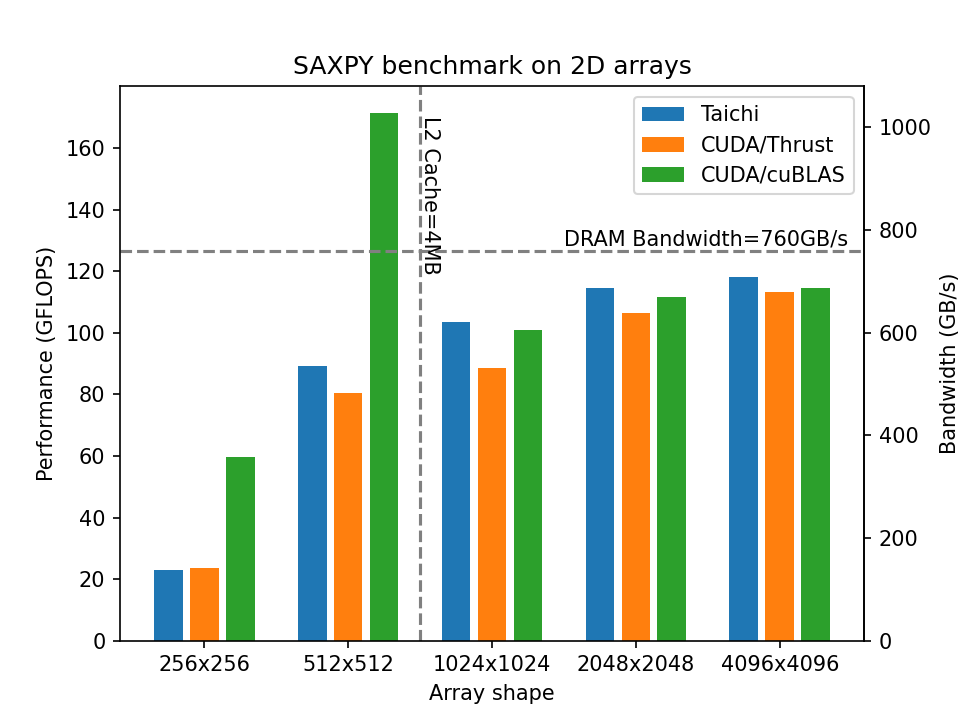
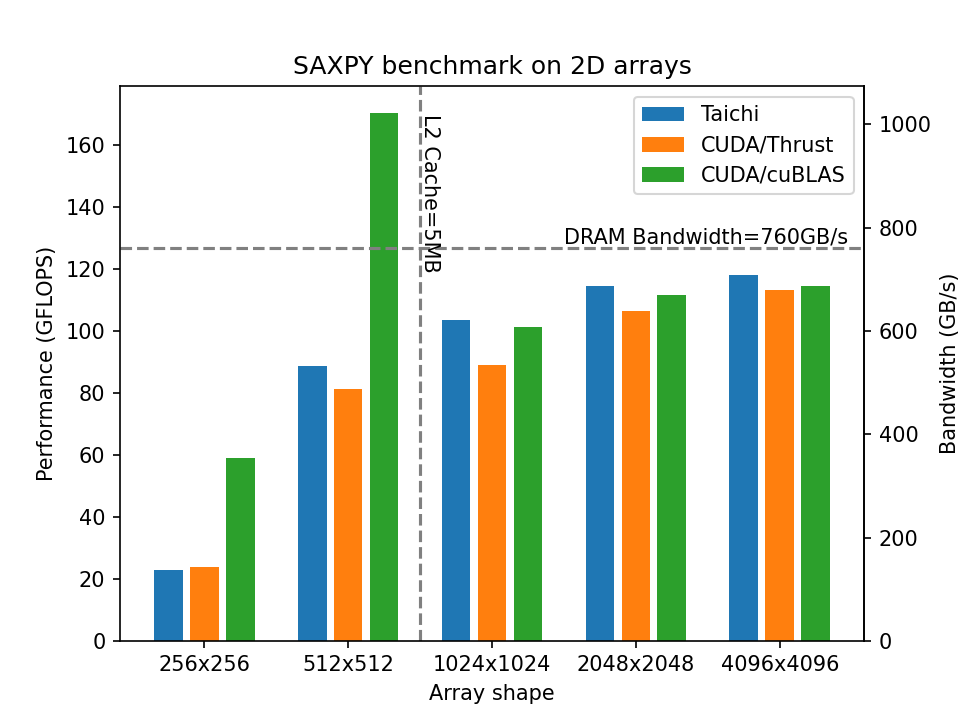
Update L2 cache size for RTX3080

diff --git a/stencil2d/plot_benchmark.py b/stencil2d/plot_benchmark.py
@@ -37,8 +37,8 @@ def plot(cuda_results, taichi_results):
     plt.title("Stencil benchmark")
     plt.axhline(y = 760, color='grey', linestyle = 'dashed')
     plt.text(80, 730, 'DRAM Bandwidth=760GB/s')
-    plt.axvline(x = 723, color='grey', linestyle = 'dashed')
-    plt.text(723, 200, 'L2 Cache=4MB', rotation=270)
+    plt.axvline(x = 809, color='grey', linestyle = 'dashed')
+    plt.text(809, 200, 'L2 Cache=5MB', rotation=270)
     plt.savefig("fig/bench.png", dpi=150)
 
 if __name__ == '__main__':

diff --git a/saxpy/plot_benchmark.py b/saxpy/plot_benchmark.py
@@ -70,7 +70,7 @@ def plot_compute(results):
         return x / 6.0
     ax2 = ax.secondary_yaxis('right', functions=(comp2mem, mem2comp))
     ax2.set_ylabel("Bandwidth (GB/s)")
-    ax.text(7, 120, 'L2 Cache=4MB', rotation=270)
+    ax.text(7, 120, 'L2 Cache=5MB', rotation=270)
     plt.axhline(y = 760 / 6.0, color='grey', linestyle = 'dashed')
     plt.text(11, 770/6.0, 'DRAM Bandwidth=760GB/s')
     ax.set_title("SAXPY benchmark on 2D arrays")

diff --git a/n-body/README.md b/n-body/README.md
@@ -135,7 +135,7 @@ We conduct performance evaluation on the following device.
 |-----|-----------------------|
 |FP32 performance| 29700 GFLOPS|
 |Memory bandwidth| 760 GB/s|
-|L2 cache capacity| 4MB|
+|L2 cache capacity| 5 MB|
 
 
 Performance is measured with "Billion body interactions per second" to indicate compute throughtput. The performance of different Taichi and CUDA implementations is illustrated in the following figure.

diff --git a/stencil2d/README.md b/stencil2d/README.md
@@ -14,7 +14,7 @@ We conduct performance evaluation on the following device.
 |-----|-----------------------|
 |FP32 performance| 29700 GFLOPS|
 |Memory bandwidth| 760 GB/s|
-|L2 cache capacity| 4MB|
+|L2 cache capacity| 5 MB|
 
 
 The performance of different Taichi and CUDA implementations is illustrated in the figure.

diff --git a/saxpy/README.md b/saxpy/README.md
@@ -58,7 +58,7 @@ thrust::transform(d_x.begin(), d_x.end(), d_y.begin(), d_y.begin(), 2.0f * (2.0f
 |-----|-----------------------|
 |FP32 performance| 29700 GFLOPS|
 |Memory bandwidth| 760 GB/s|
-|L2 cache capacity| 4MB|
+|L2 cache capacity| 5 MB|
 
 ### Standard SAXPY
 
